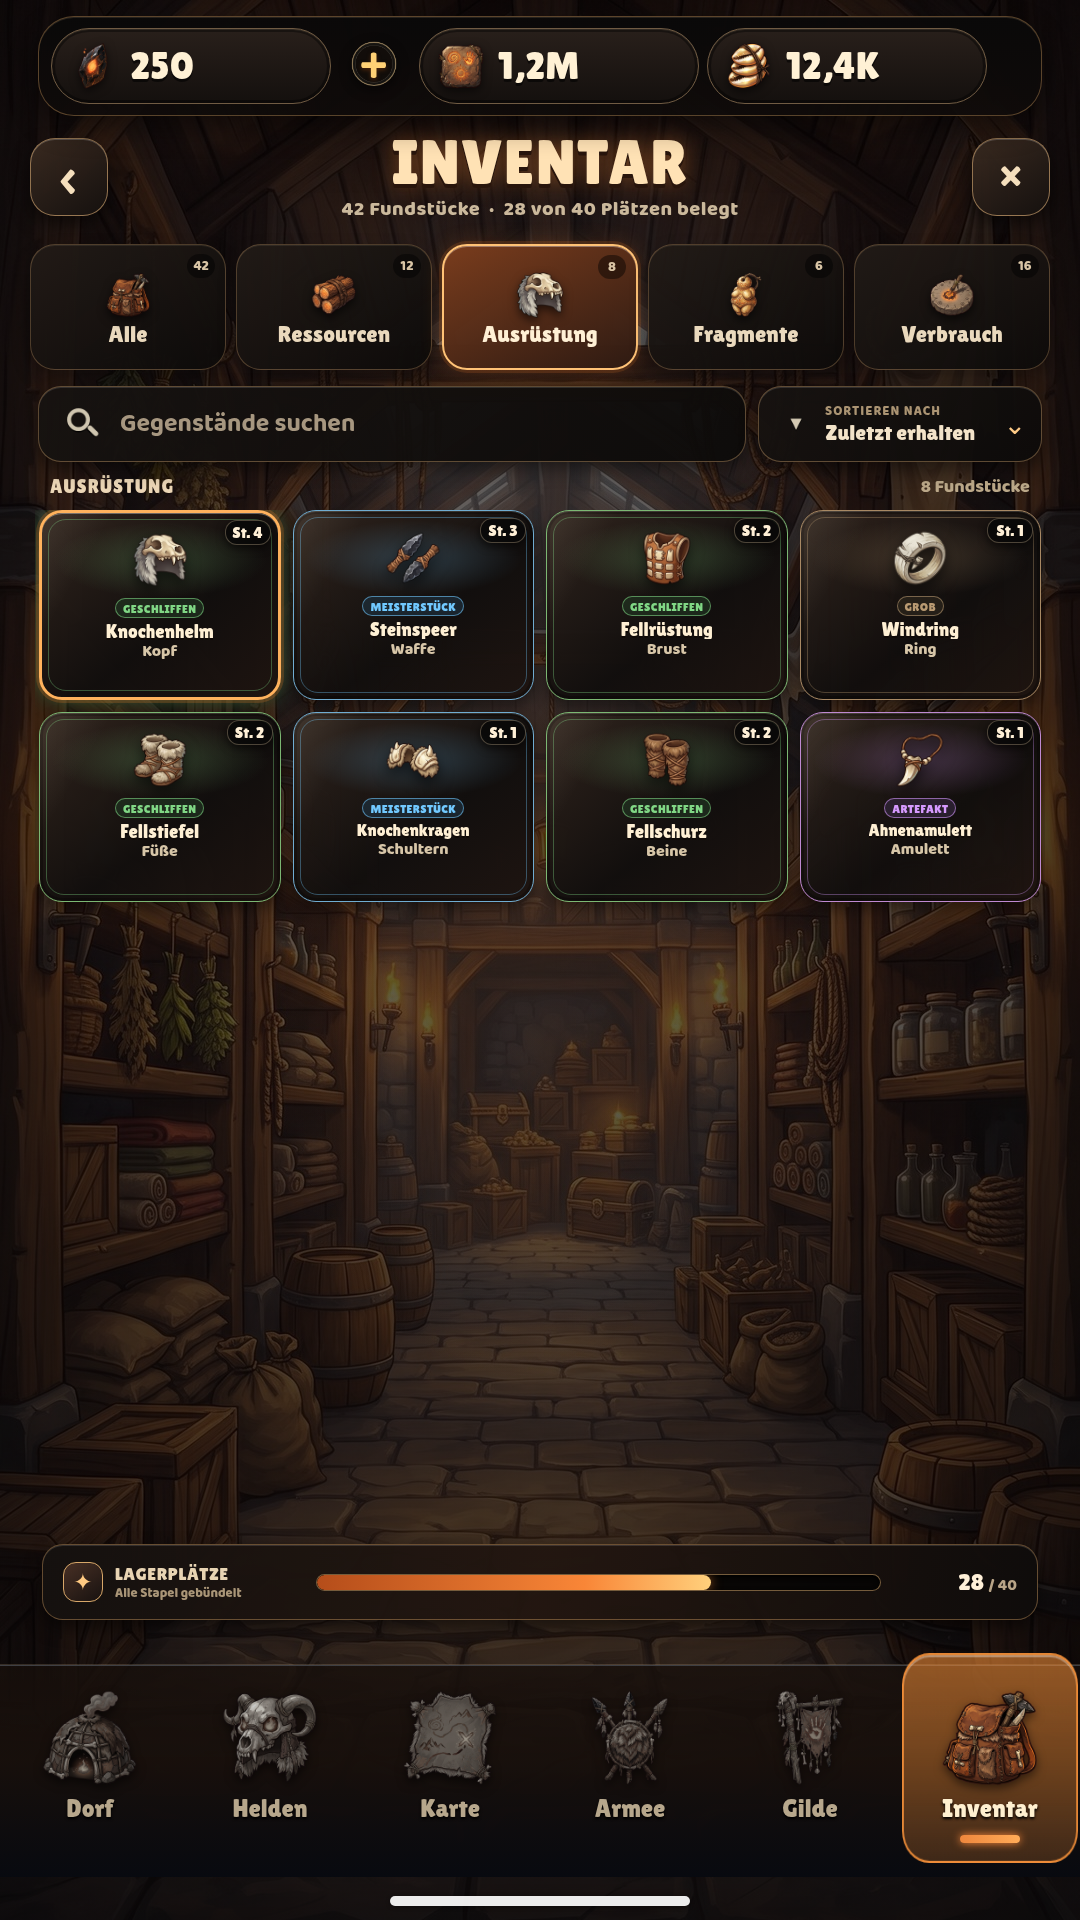
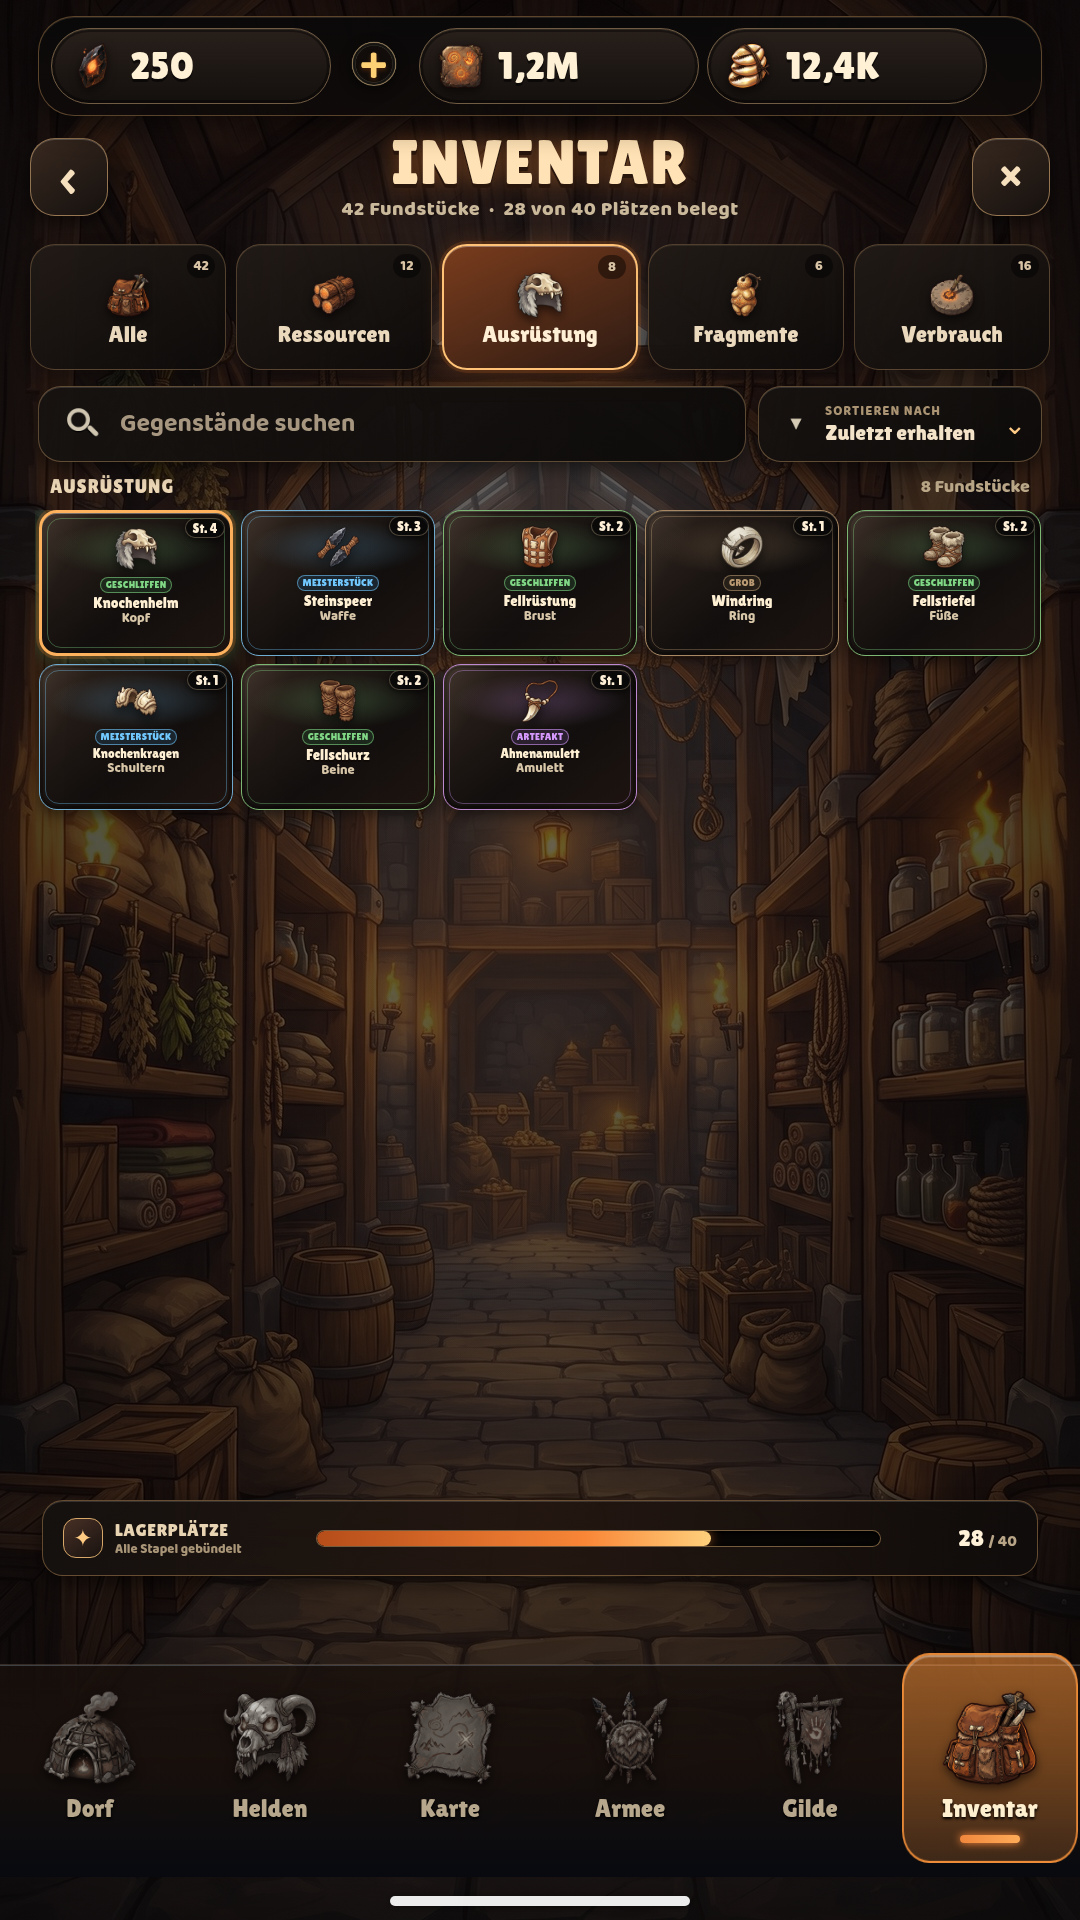
Shrink inventory cards to five-column grid

diff --git a/team/art/ui-kit/menus_v3/_src/html/v3_2_obsidian_inventar_v4_interaktiv.html b/team/art/ui-kit/menus_v3/_src/html/v3_2_obsidian_inventar_v4_interaktiv.html
@@ -3,7 +3,7 @@
 <head>
 <meta charset="utf-8">
 <meta name="viewport" content="width=1080, initial-scale=1, maximum-scale=1, user-scalable=no">
-<title>Inventar · Obsidian &amp; Glut v4b</title>
+<title>Inventar · Obsidian &amp; Glut v4e</title>
 <style>
 @font-face{font-family:Lilita;src:url("../inventar_v4_assets/LilitaOne-Regular.ttf")}
 @font-face{font-family:Baloo;src:url("../inventar_v4_assets/Baloo2-Variable.ttf");font-weight:400 800}
@@ -52,23 +52,23 @@ button{cursor:pointer}
 .grid-head{position:absolute;z-index:8;left:50px;top:474px;width:980px;height:25px;display:flex;align-items:center;justify-content:space-between;color:#ebd6b6}
 .grid-head strong{font:19px/1 Lilita;letter-spacing:1.1px}
 .grid-head span{font:18px/1 Baloo;color:#bba889;font-weight:800}
-.collection{position:absolute;z-index:7;left:35px;top:510px;width:1010px;height:1002px;display:grid;grid-template-columns:repeat(4,1fr);grid-auto-rows:190px;gap:12px;overflow-y:auto;scrollbar-width:none;padding:0 4px 4px}
+.collection{position:absolute;z-index:7;left:35px;top:510px;width:1010px;height:920px;display:grid;grid-template-columns:repeat(5,1fr);grid-auto-rows:146px;gap:8px;overflow-y:auto;scrollbar-width:none;padding:0 4px 4px}
 .collection::-webkit-scrollbar{display:none}
-.item-card{position:relative;overflow:hidden;height:190px;padding:9px 10px 8px;border:1.5px solid color-mix(in srgb,var(--grade) 78%,#6c4b31);border-radius:23px;background:linear-gradient(142deg,rgba(48,36,29,.97),rgba(17,14,13,.98) 58%,rgba(30,20,16,.98));box-shadow:0 7px 14px rgba(0,0,0,.4),inset 0 1px 0 rgba(255,245,225,.15),inset 0 0 0 3px rgba(0,0,0,.24);display:grid;grid-template-columns:1fr;grid-template-rows:76px 1fr;align-items:center;text-align:center;transition:transform .16s,box-shadow .16s,border-color .16s}
-.item-card:before{content:"";position:absolute;inset:6px;border:1px solid color-mix(in srgb,var(--grade) 36%,transparent);border-radius:18px;pointer-events:none}
+.item-card{position:relative;overflow:hidden;height:146px;padding:8px 8px 7px;border:1.5px solid color-mix(in srgb,var(--grade) 78%,#6c4b31);border-radius:18px;background:linear-gradient(142deg,rgba(48,36,29,.97),rgba(17,14,13,.98) 58%,rgba(30,20,16,.98));box-shadow:0 6px 12px rgba(0,0,0,.38),inset 0 1px 0 rgba(255,245,225,.15),inset 0 0 0 3px rgba(0,0,0,.24);display:grid;grid-template-columns:1fr;grid-template-rows:56px 1fr;align-items:center;text-align:center;transition:transform .16s,box-shadow .16s,border-color .16s}
+.item-card:before{content:"";position:absolute;inset:5px;border:1px solid color-mix(in srgb,var(--grade) 36%,transparent);border-radius:14px;pointer-events:none}
 .item-card:after{content:"";position:absolute;inset:-45% -30%;background:linear-gradient(120deg,transparent 39%,rgba(255,245,218,.075) 49%,transparent 59%);transform:translateX(-40%);pointer-events:none}
 .item-card.selected{border:3px solid #ffb25d;box-shadow:0 0 0 3px rgba(255,126,33,.2),0 0 22px color-mix(in srgb,var(--grade) 45%,transparent),0 10px 22px #0009,inset 0 1px 0 #fff5}
-.item-art{position:relative;width:100%;height:76px;display:grid;place-items:center;border-radius:18px;background:radial-gradient(ellipse, color-mix(in srgb,var(--grade) 22%,transparent),transparent 70%)}
-.item-art img{width:60px;height:60px;object-fit:contain;filter:drop-shadow(0 6px 7px #0009)}
+.item-art{position:relative;width:100%;height:56px;display:grid;place-items:center;border-radius:15px;background:radial-gradient(ellipse, color-mix(in srgb,var(--grade) 22%,transparent),transparent 70%)}
+.item-art img{width:48px;height:48px;object-fit:contain;filter:drop-shadow(0 5px 6px #0009)}
 .item-copy{position:relative;z-index:2;display:flex;flex-direction:column;align-items:center;justify-content:flex-start;min-width:0;height:100%;padding:0}
-.grade{display:inline-flex;align-items:center;min-height:20px;padding:2px 7px 1px;border:1px solid color-mix(in srgb,var(--grade) 58%,transparent);border-radius:10px;background:color-mix(in srgb,var(--grade) 15%,rgba(8,7,7,.72));color:var(--grade);font:12px/1 Lilita;letter-spacing:.35px;white-space:nowrap;text-transform:uppercase}
-.item-name{display:block;max-width:100%;margin-top:4px;color:#fff0d4;font:19px/1 Lilita;text-shadow:0 2px 0 #100a07;white-space:nowrap;overflow:hidden;text-overflow:ellipsis}
-.item-name.long{font-size:17px}
-.item-count{display:block;margin-top:3px;color:#d7c6a8;font:16px/1 Baloo;font-weight:800;white-space:nowrap}
-.stack-pill{position:absolute;z-index:3;top:7px;right:7px;min-width:46px;padding:4px 6px 3px;border:1px solid rgba(255,226,184,.28);border-radius:12px;background:rgba(7,6,6,.78);color:#fff0d7;font:16px/1 Lilita;text-align:center;box-shadow:0 3px 8px #0009}
-.mini-progress{width:72%;height:5px;margin-top:5px;border-radius:6px;background:#080706;overflow:hidden;box-shadow:inset 0 1px 2px #000}
+.grade{display:inline-flex;align-items:center;min-height:16px;padding:1px 5px;border:1px solid color-mix(in srgb,var(--grade) 58%,transparent);border-radius:9px;background:color-mix(in srgb,var(--grade) 15%,rgba(8,7,7,.72));color:var(--grade);font:10px/1 Lilita;letter-spacing:.25px;white-space:nowrap;text-transform:uppercase}
+.item-name{display:block;max-width:100%;margin-top:2px;color:#fff0d4;font:15px/1 Lilita;text-shadow:0 2px 0 #100a07;white-space:nowrap;overflow:hidden;text-overflow:ellipsis}
+.item-name.long{font-size:13px}
+.item-count{display:block;margin-top:2px;color:#d7c6a8;font:13px/1 Baloo;font-weight:800;white-space:nowrap}
+.stack-pill{position:absolute;z-index:3;top:5px;right:5px;min-width:40px;padding:3px 5px 2px;border:1px solid rgba(255,226,184,.28);border-radius:10px;background:rgba(7,6,6,.78);color:#fff0d7;font:13px/1 Lilita;text-align:center;box-shadow:0 2px 6px #0009}
+.mini-progress{width:68%;height:4px;margin-top:3px;border-radius:6px;background:#080706;overflow:hidden;box-shadow:inset 0 1px 2px #000}
 .mini-progress i{display:block;height:100%;background:linear-gradient(90deg,#f16b25,#ffd47e);box-shadow:0 0 8px #ff9a3d}
-.capacity{position:absolute;z-index:8;left:42px;top:1544px;width:996px;height:76px;padding:9px 20px;display:grid;grid-template-columns:235px 1fr 118px;align-items:center;gap:18px;border:1px solid rgba(214,162,101,.42);border-radius:21px;background:linear-gradient(100deg,rgba(21,17,15,.98),rgba(34,22,16,.96),rgba(15,12,11,.98));box-shadow:0 8px 17px #0008,inset 0 1px 0 #fff2}
+.capacity{position:absolute;z-index:8;left:42px;top:1500px;width:996px;height:76px;padding:9px 20px;display:grid;grid-template-columns:235px 1fr 118px;align-items:center;gap:18px;border:1px solid rgba(214,162,101,.42);border-radius:21px;background:linear-gradient(100deg,rgba(21,17,15,.98),rgba(34,22,16,.96),rgba(15,12,11,.98));box-shadow:0 8px 17px #0008,inset 0 1px 0 #fff2}
 .capacity-label{display:flex;align-items:center;gap:12px}
 .capacity-mark{width:40px;height:40px;border:1px solid #d7a769;border-radius:13px;display:grid;place-items:center;background:linear-gradient(145deg,#483025,#181210);color:#ffca82;font:23px/1 Lilita}
 .capacity-label div{display:flex;flex-direction:column;line-height:1}

diff --git a/team/art/hud_d2/_src/render_vorschau_menu_inventar_d2_v4.py b/team/art/hud_d2/_src/render_vorschau_menu_inventar_d2_v4.py
@@ -1,5 +1,5 @@
 #!/usr/bin/env python3
-"""Rendere die drei Inventar-v4d-Keyframes aus dem interaktiven HTML."""
+"""Rendere die drei Inventar-v4e-Keyframes aus dem interaktiven HTML."""
 from __future__ import annotations
 
 import shutil

diff --git a/team/art/hud_d2/massplan_menu_inventar_d2_v4.md b/team/art/hud_d2/massplan_menu_inventar_d2_v4.md
@@ -1,4 +1,4 @@
-# Maßplan · Inventar D2 v4b
+# Maßplan · Inventar D2 v4e
 
 Leinwand: **1080 × 1920 px**, Hochformat. Das UI nutzt feste Pixelmaße wie der Beschwören-v16-Mock; Kartenbereich und Suchfeld bleiben im HTML bedienbar.
 
@@ -8,8 +8,8 @@ Leinwand: **1080 × 1920 px**, Hochformat. Das UI nutzt feste Pixelmaße wie der
 | Kopf | x30, y126 · 1020 × 102 | Zurück, Inventar, Schließen; Belegung 28/40 |
 | Kategorien | x30, y244 · 1020 × 126 | fünf gleich große Tabs mit Symbol und Anzahl |
 | Suche / Sortierung | x38, y386 · 1004 × 76 | Suche 708 px, Sortierung 284 px |
-| Kartenraster | x35, y510 · 1010 × 1002 | vier Spalten, Karten 242 × 190 px, fünf Reihen sichtbar, vertikal scrollbar; Icons 60 px |
-| Kapazität | x42, y1544 · 996 × 76 | Belegung 28/40, Glut-Füllstand 70 % |
+| Kartenraster | x35, y510 · 1010 × 920 | fünf Spalten, Karten 194 × 146 px, sechs Reihen (30 Gegenstände) sichtbar, vertikal scrollbar; Icons 48 px; Abstand 8 px |
+| Kapazität | x42, y1500 · 996 × 76 | Belegung 28/40, Glut-Füllstand 70 % |
 | Übersicht | — | Tabs, Suche, Sortierung, Raster und Kapazität; keine feststehende Detailfläche |
 | Detailsheet (modal) | x38, y688 · 1004 × 946 | nur nach Tipp auf Gegenstand; großes Itembild, Werte und typabhängige Aktion; X, Zurück, Außentipp oder Escape schließt |
 | Dock A | x0, y1664 · 1080 × 256 | sechs Bereiche, Inventar aktiv, Home-Leiste |

diff --git a/team/art/hud_d2/BERICHT_inventar_komplett_neu_v4e_2026-10-23.md b/team/art/hud_d2/BERICHT_inventar_komplett_neu_v4e_2026-10-23.md
@@ -1,0 +1,20 @@
+# Inventar v4e · Kurzbericht
+
+## Änderung
+
+- Raster auf **fünf Spalten** mit Karten von rund **194 × 146 px** und **8 px** Abstand umgestellt.
+- Sechs vollständige Reihen, also **30 Gegenstände**, sind gleichzeitig sichtbar. Bilder, Seltenheitsmarken, Namen, Typen und Mengen sind proportional verkleinert.
+- Übersicht bleibt ohne feststehendes Detail. Das modale Sheet samt **ANLEGEN**/**VERWENDEN** wurde in Größe und Inhalt unverändert gelassen.
+- HTML, Renderer und Maßplan angepasst; Alle, Ausrüstung und Detailsheet neu gerendert.
+
+## Prüfung
+
+- Sichtprüfung: Alle zeigt fünf Spalten und sechs volle Reihen; Detailsheet unverändert.
+- Alle drei PNGs haben **1080 × 1920 px**.
+- `git diff --check` sauber.
+
+## Kosten
+
+- **0 $ Bildgenerierung.** Vorhandene D2-Grafiken wiederverwendet.
+
+DONE · 2026-10-23 21:17:15 CEST (Europe/Berlin)
